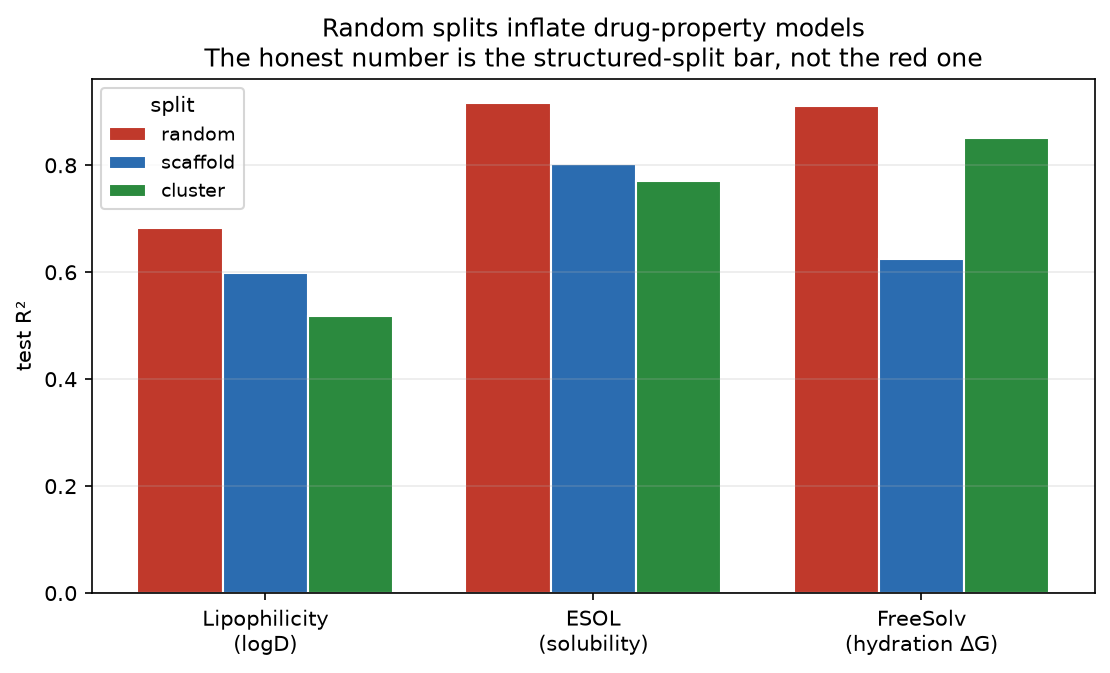
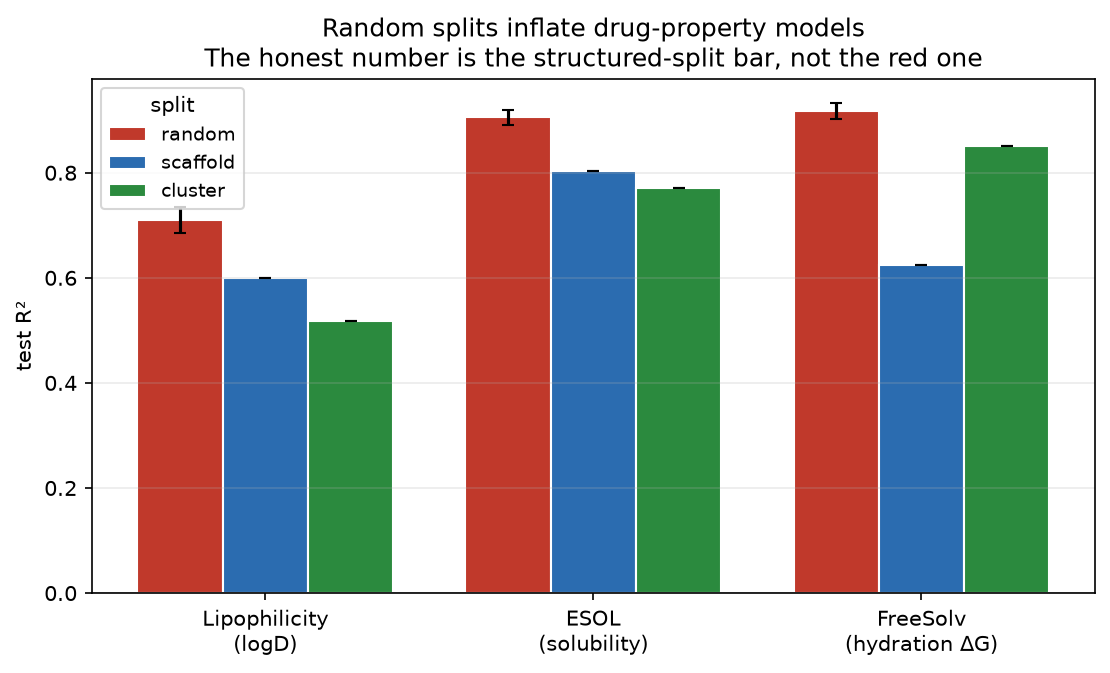
Report random splits over 5 seeds; fix README numbers and the split-hardness claim
An audit of the leakage benchmark found the headline numbers reproduce exactly and
are robust to seed, but three things in the write-up did not hold up.

- random splits were a single draw (seed 0). They are now re-drawn over 5 seeds and
  reported as mean +/- sd, with error bars on the figure; scaffold and cluster are
  deterministic and stay single values. This strengthens the result rather than
  weakening it: seed 0 happened to be the weakest of five on Lipophilicity, so the
  published +12% understated the real +16 +/- 3%.
- the Lipophilicity row claimed +12-31% inflation. Its actual value is +16% against
  scaffold and +24% against cluster; the 31% belonged to FreeSolv.
- the split-difficulty table understated the repo's own finding, claiming 0-1%
  near-duplicates for scaffold splits where Lipophilicity leaves 3.3%, and hiding
  real per-dataset spread behind "~" single values. Now reported as ranges.

Descriptor NaN imputation took its median over the whole dataset, fitting an
imputation statistic on test rows. Verified inert here (zero NaNs across all three
datasets) but corrected anyway, since featurize.py is the first file a reader checks
in a repository about leakage. featurize() and descriptors() now take impute_idx.

The "physical-chemistry reading" section is replaced. It argued that inflation is
largest for the most physical target, which the repo's own cluster-split column
contradicts: measured against cluster instead of scaffold the ordering reverses and
[…]

diff --git a/scripts/run_leakage_benchmark.py b/scripts/run_leakage_benchmark.py
@@ -28,9 +28,12 @@ from smpro1 import (
 )
 
 DATASETS = ["lipophilicity", "esol", "freesolv"]
+N_SEEDS = 5          # random splits are re-drawn; scaffold and cluster are deterministic
 
 
-def evaluate(ds, X, split):
+def evaluate(ds, split):
+    """Fit and score one split. Descriptor imputation is fitted on TRAIN rows only."""
+    X, _ = featurize(ds.mols, "ecfp+desc", impute_idx=split.train)
     model = GBMRegressor(n_estimators=400, backend="lightgbm").fit(
         X[split.train], ds.y[split.train])
     m = regression_metrics(ds.y[split.test], model.predict(X[split.test]))
@@ -48,30 +51,43 @@ def main():
     rows = []
     for name in DATASETS:
         ds = load_dataset(name)
-        X, _ = featurize(ds.mols, "ecfp+desc")
         print(f"\n{ds}  ({ds.note})")
-        splits = {
-            "random": random_split(len(ds), seed=0),
-            "scaffold": scaffold_split(ds.mols),
-            "cluster": cluster_split(ds.mols),
-        }
-        for sname, sp in splits.items():
-            r2, rmse, nn, dup = evaluate(ds, X, sp)
+        # a random split is one draw from a distribution, so quoting a single seed
+        # quotes sampling noise as a result; scaffold and cluster are deterministic
+        # and need no repeats
+        runs = [("random", random_split(len(ds), seed=s)) for s in range(N_SEEDS)]
+        runs += [("scaffold", scaffold_split(ds.mols)), ("cluster", cluster_split(ds.mols))]
+        for sname, sp in runs:
+            r2, rmse, nn, dup = evaluate(ds, sp)
             rows.append({"dataset": name, "split": sname, "r2": r2, "rmse": rmse,
                          "nn_similarity": nn, "frac_near_dup": dup})
-            print(f"  {sname:9s} R2={r2:5.2f}  RMSE={rmse:5.2f}  "
-                  f"NN-sim={nn:.2f}  near-dup>{0.9}={dup:.0%}")
+        for sname in ("random", "scaffold", "cluster"):
+            g = [r for r in rows if r["dataset"] == name and r["split"] == sname]
+            r2 = np.array([r["r2"] for r in g])
+            sd = f" +/-{r2.std():.2f}" if len(g) > 1 else ""
+            print(f"  {sname:9s} R2={r2.mean():5.2f}{sd}  "
+                  f"RMSE={np.mean([r['rmse'] for r in g]):5.2f}  "
+                  f"NN-sim={np.mean([r['nn_similarity'] for r in g]):.2f}  "
+                  f"near-dup>0.9={np.mean([r['frac_near_dup'] for r in g]):.0%}"
+                  f"{f'  (n={len(g)} seeds)' if len(g) > 1 else ''}")
 
     res = pd.DataFrame(rows)
     res.to_csv(args.outdir / "leakage_results.csv", index=False)
 
-    piv = res.pivot(index="dataset", columns="split", values="r2")[["random", "scaffold", "cluster"]]
+    piv = res.pivot_table(index="dataset", columns="split", values="r2",
+                          aggfunc="mean")[["random", "scaffold", "cluster"]]
+    rsd = res[res.split == "random"].groupby("dataset").r2.std()
     # the ratio is only meaningful when the random-split model actually works;
     # near-zero or negative random R2 would print absurd or sign-flipped
     # percentages, so report NaN ("n/a") there instead
     with np.errstate(all="ignore"):
         infl = (piv["random"] - piv["scaffold"]) / piv["random"] * 100
+        # spread of the inflation across random draws, so the headline carries its own
+        # uncertainty instead of resting on whichever seed happened to be run first
+        infl_sd = (rsd / piv["random"] * 100) * (piv["scaffold"] / piv["random"])
+    piv["random_r2_sd"] = rsd
     piv["random_inflation_%"] = infl.where(piv["random"] >= 0.2)
+    piv["random_inflation_sd"] = infl_sd.where(piv["random"] >= 0.2)
     print("\nR2 by dataset and split (random inflation = how much the random split lies):")
     print(piv.round(2).to_string())
     piv.round(3).to_csv(args.outdir / "leakage_table.csv")
@@ -88,8 +104,11 @@ def main():
     w = 0.26
     colors = {"random": "#c0392b", "scaffold": "#2b6cb0", "cluster": "#2b8a3e"}
     for k, s in enumerate(order):
-        vals = [res[(res.dataset == d) & (res.split == s)].r2.iloc[0] for d in DATASETS]
-        ax.bar(x + (k - 1) * w, vals, w, label=s, color=colors[s], edgecolor="white")
+        sel = [res[(res.dataset == d) & (res.split == s)].r2 for d in DATASETS]
+        vals = [v.mean() for v in sel]          # mean over seeds; one value for deterministic splits
+        errs = [v.std() if len(v) > 1 else 0.0 for v in sel]
+        ax.bar(x + (k - 1) * w, vals, w, yerr=errs, capsize=3, label=s,
+               color=colors[s], edgecolor="white")
     ax.set_xticks(x)
     ax.set_xticklabels(["Lipophilicity\n(logD)", "ESOL\n(solubility)", "FreeSolv\n(hydration ΔG)"])
     ax.set_ylabel("test R²")

diff --git a/src/smpro1/featurize.py b/src/smpro1/featurize.py
@@ -52,8 +52,20 @@ def morgan(mols: Sequence[Chem.Mol], n_bits: int = 2048, counts: bool = True) ->
     return out
 
 
-def descriptors(mols: Sequence[Chem.Mol]) -> np.ndarray:
-    """Curated med-chem descriptor block, NaN-imputed by column median."""
+def descriptors(mols: Sequence[Chem.Mol], impute_idx: Sequence[int] | None = None) -> np.ndarray:
+    """Curated med-chem descriptor block, NaN-imputed by column median.
+
+    ``impute_idx`` selects the rows the imputation median is computed from -- pass
+    the TRAIN indices. An imputation statistic is a fitted parameter, so taking it
+    over the whole dataset lets test molecules influence the values the model is
+    trained on. That is textbook leakage even though it is tiny, and in a repository
+    whose subject is leakage it is the first thing a reader will check.
+
+    Defaults to every row, which reproduces the earlier behaviour for callers that
+    have no split to hand. In practice none of the bundled datasets produce a single
+    NaN, so the two paths agree numerically -- the point is that the code no longer
+    depends on that being true.
+    """
     out = np.zeros((len(mols), len(_DESCRIPTORS)), dtype=np.float64)
     for i, m in enumerate(mols):
         for j, (_, fn) in enumerate(_DESCRIPTORS):
@@ -62,22 +74,29 @@ def descriptors(mols: Sequence[Chem.Mol]) -> np.ndarray:
             except Exception:
                 v = np.nan
             out[i, j] = v if np.isfinite(v) else np.nan
-    col_med = np.nanmedian(out, axis=0)
+    ref = out if impute_idx is None else out[np.asarray(impute_idx, int)]
+    with np.errstate(all="ignore"):
+        col_med = np.nanmedian(ref, axis=0)
     col_med = np.where(np.isfinite(col_med), col_med, 0.0)
     bad = np.where(~np.isfinite(out))
     out[bad] = np.take(col_med, bad[1])
     return out
 
 
-def featurize(mols: Sequence[Chem.Mol], kind: str = "ecfp+desc",
-              n_bits: int = 2048) -> tuple[np.ndarray, list[str]]:
-    """Return ``(X, feature_names)`` for ``"ecfp"``, ``"desc"``, or ``"ecfp+desc"``."""
+def featurize(mols: Sequence[Chem.Mol], kind: str = "ecfp+desc", n_bits: int = 2048,
+              impute_idx: Sequence[int] | None = None) -> tuple[np.ndarray, list[str]]:
+    """Return ``(X, feature_names)`` for ``"ecfp"``, ``"desc"``, or ``"ecfp+desc"``.
+
+    ``impute_idx`` is forwarded to :func:`descriptors`; pass the train indices so the
+    descriptor imputation is fitted on training rows only. Fingerprints are computed
+    per molecule and need no such care.
+    """
     if kind == "ecfp":
         return morgan(mols, n_bits), [f"ecfp_{i}" for i in range(n_bits)]
     if kind == "desc":
-        return descriptors(mols), list(DESCRIPTOR_NAMES)
+        return descriptors(mols, impute_idx), list(DESCRIPTOR_NAMES)
     if kind == "ecfp+desc":
-        X = np.hstack([morgan(mols, n_bits), descriptors(mols)])
+        X = np.hstack([morgan(mols, n_bits), descriptors(mols, impute_idx)])
         names = [f"ecfp_{i}" for i in range(n_bits)] + list(DESCRIPTOR_NAMES)
         return X, names
     raise ValueError(f"unknown featurizer kind {kind!r}")

diff --git a/README.md b/README.md
@@ -17,25 +17,58 @@ Same model and features on three standard benchmarks — **only the split change
 
 | dataset | random R² | scaffold R² | cluster R² | random inflated by |
 |:---|---:|---:|---:|---:|
-| Lipophilicity (logD) | 0.68 | 0.60 | 0.52 | +12–31% |
-| ESOL (aqueous solubility) | 0.92 | 0.80 | 0.77 | +12% |
-| **FreeSolv (hydration ΔG)** | **0.91** | **0.63** | 0.85 | **+31%** |
+| Lipophilicity (logD) | 0.71 ± 0.03 | 0.60 | 0.52 | +16 ± 3% |
+| ESOL (aqueous solubility) | 0.91 ± 0.01 | 0.80 | 0.77 | +11 ± 1% |
+| **FreeSolv (hydration ΔG)** | **0.92 ± 0.02** | **0.63** | 0.85 | **+32 ± 1%** |
 
-FreeSolv is the cautionary tale: **R² = 0.91 on a random split, 0.63 on new scaffolds — and RMSE more than doubles, 1.26 → 3.13 kcal/mol.** A team trusting the 0.91 would ship a model that fails on novel chemistry.
+Random splits are re-drawn over 5 seeds and reported as mean ± sd; scaffold and cluster splits are deterministic, so they are single values. Inflation is quoted against the scaffold split.
 
-The leakage is not asserted, it's measured. `split_difficulty()` reports how far each test set really sits from training:
+FreeSolv is the cautionary tale: **R² = 0.92 on a random split, 0.63 on new scaffolds — and RMSE nearly triples, 1.09 → 3.13 kcal/mol.** A team trusting the 0.92 would ship a model that fails on novel chemistry.
+
+The leakage is not asserted, it's measured. `split_difficulty()` reports how far each test set really sits from training. Ranges span the three datasets:
 
 | split | median nearest-neighbour similarity to train | test with a >0.9 near-duplicate in train |
 |:---|---:|---:|
-| random | ~0.53 | **6–8%** |
-| scaffold | ~0.30 | 0–1% |
-| cluster | ~0.32 | 0% |
+| random | 0.54 – 0.70 | **7 – 10%** |
+| scaffold | 0.22 – 0.52 | 0 – 3% |
+| cluster | 0.32 – 0.33 | 0% |
+
+Those are ranges rather than averages because the spread is itself the point: a scaffold split is not uniformly hard. On Lipophilicity it still leaves 3% of the test set with a near-twin in training at a median similarity of 0.52; on FreeSolv it reaches 0.22 with no near-duplicates at all.
 
 The random split leaks — several percent of its test set has a near-twin in training — which is exactly why its scores are inflated.
 
-## A physical-chemistry reading
+## "Which split is hardest" has no single answer — and that is the finding
 
-The inflation is **largest for the most physical target.** Hydration free energy (FreeSolv) is a literal ΔG — an interaction energy set by specific functional groups and geometry — so a genuinely new scaffold changes it in ways an interpolating model can't see, and the honest (scaffold) score drops hardest. Solubility and lipophilicity are softer, smoother functions of structure, and leak less. Binding affinity, molecular stability, and glass-transition temperature are the same object at other scales: **a free energy over a geometry.** Evaluating any of them on a random split measures memorisation, not the physics.
+It is tempting to read the table as *the most physical target leaks most*: hydration
+free energy is a literal ΔG, so a genuinely new scaffold should break an interpolating
+model hardest. That reading does not survive its own data. Measure the same inflation
+against the **cluster** split instead and the ordering reverses completely:
+
+| dataset | vs scaffold | vs cluster |
+|:---|---:|---:|
+| **FreeSolv** (hydration ΔG) | **+32%** | **+7%** |
+| ESOL (solubility) | +11% | +15% |
+| Lipophilicity (logD) | +16% | +27% |
+
+FreeSolv goes from the most-inflated dataset to the **least**. A target that were
+intrinsically hard to extrapolate across chemistry would be punished by both
+structured splits; FreeSolv is punished by only one.
+
+The mechanical reason is specific and worth knowing before trusting any scaffold
+number: **half of FreeSolv has no scaffold at all.** 320 of its 642 molecules are
+acyclic, so Bemis–Murcko assigns them all the empty scaffold, they form one group,
+and that group lands in train. The FreeSolv "scaffold split" is therefore largely an
+acyclic → cyclic extrapolation, which is why it is the most severe split measured
+here (nearest-neighbour similarity 0.22, no near-duplicates) while its cluster split
+is unremarkable (0.33, in line with the others).
+
+So the honest conclusion is not about which target is most physical. It is that
+**"we used a scaffold split" does not name a difficulty.** The same three words mean
+a 0.52-similarity test set on Lipophilicity and a 0.22-similarity one on FreeSolv,
+and the inflation you report follows the split you happened to pick. Report more than
+one structured split, and report `split_difficulty()` alongside it, or the number is
+not interpretable — which is the whole argument of this repository, arriving from a
+direction I did not expect.
 
 ## Run it
 
